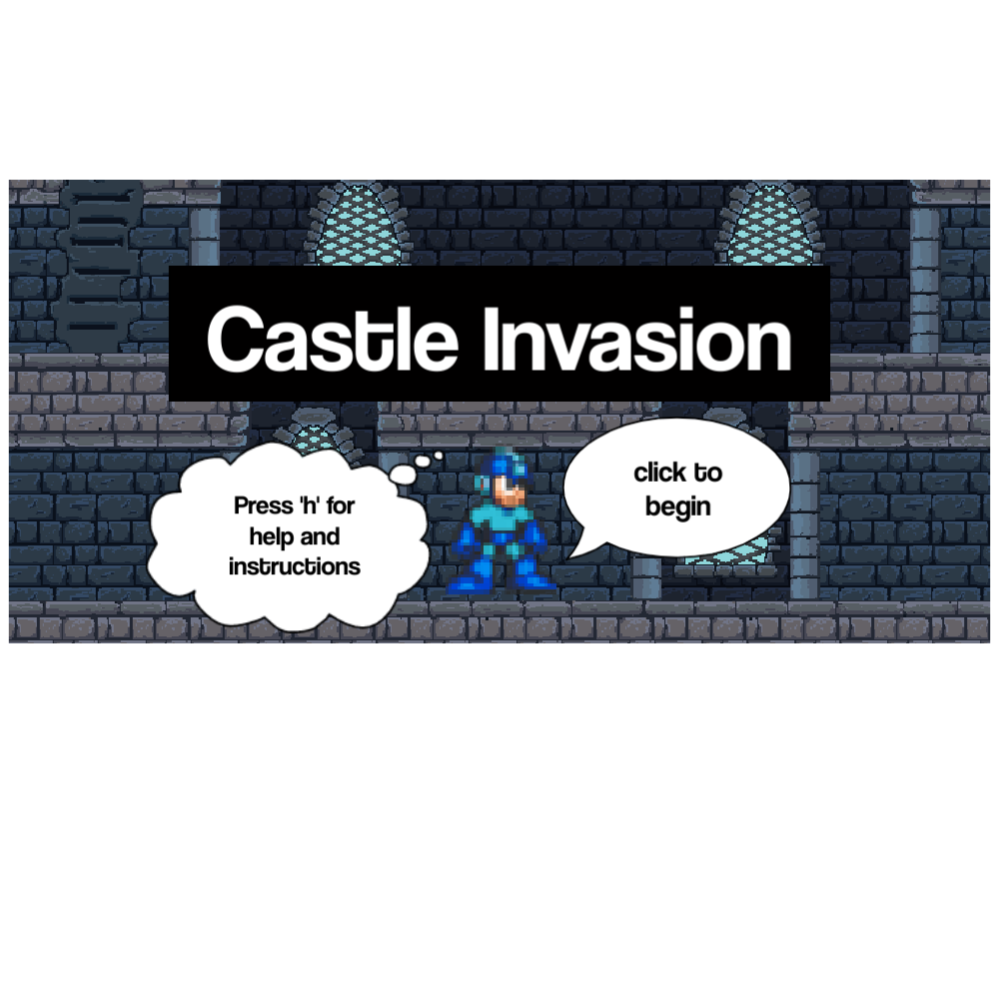
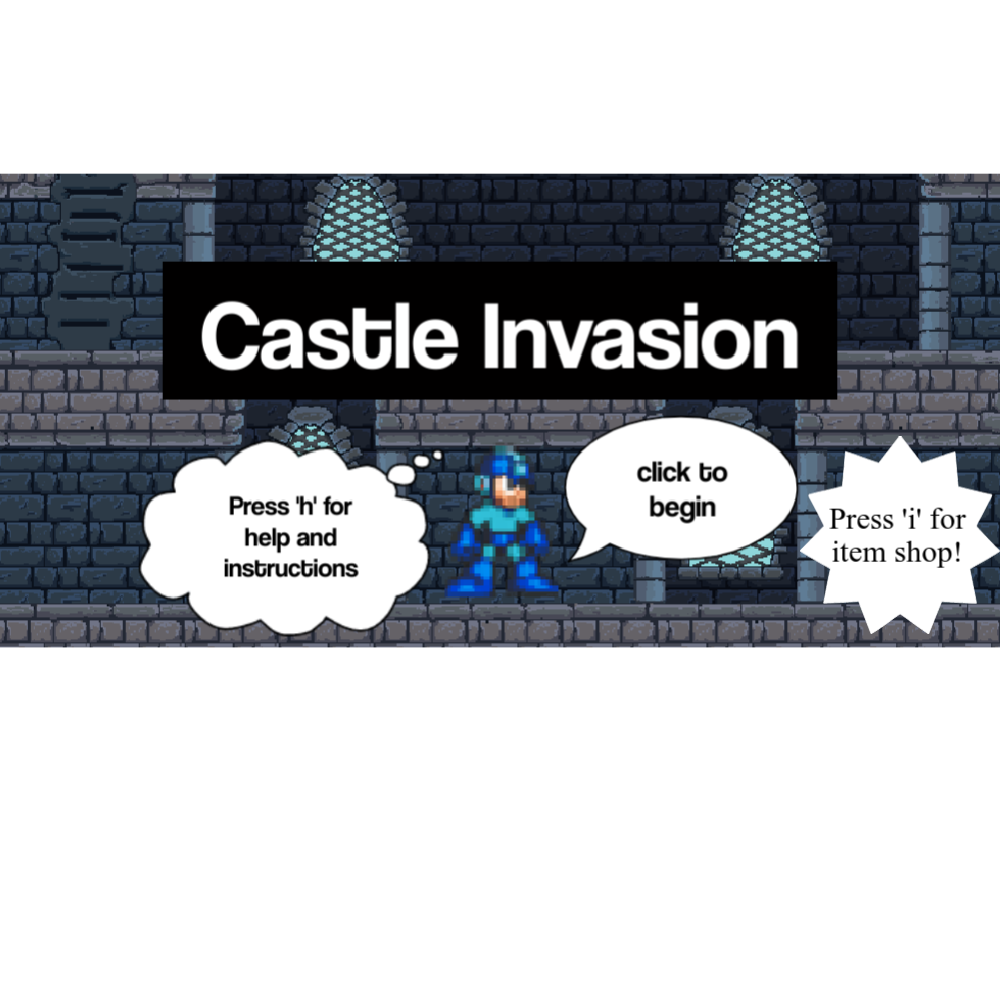
item shop

Changed region(s): [[0.0, 0.1552, 1.0, 0.6517], [0.2172, 0.4965, 0.3724, 0.5896]]

diff --git a/game/game.js b/game/game.js
@@ -47,7 +47,7 @@ function drawHelp() {
 function drawStart() {
  ctx.save(); //saves the present condition/state of the image/game
  ctx.beginPath(); //starts the drawing
- ctx.drawImage(imgStart, -10, -300, 1300, 1400); //parameters for drawing the bird
+ ctx.drawImage(imgStart, -10, -300, 1210, 1400); //parameters for drawing the bird
  ctx.fill(); //fills the image/drawing
  ctx.stroke(); //finishes the drawing
  ctx.restore(); //reuses the saved image
@@ -114,13 +114,21 @@ function draw(){
     if (keyInd >= 4) { // gives you access to the boss level (use top ladder to get to)
       pass = true;
     }
+    if (noColl == false) { //if there is no bubble protection, engage collisions (checkers)
+      collideHeroBad(); //calls the function that checks the collision between the npc and the hero
+      collideHeroBar(); //calls the function that checks for collisions between the hero and the barrel
+    }
+    if (noColl == true) { //if powerup is engaged, draw bubble so player knows its in effect
+      drawBubble(); //calls the function that draws the bubble for protection
+    }
+    noCollTime(); //calls the function that times how long the bubble should be in use
+    runTime(); //calls the function that times how long the speed run power should be in use
     drawScore(); //calls the function that draws the hero's heart and life
     scoreKeeperGood(); //calls the function that keeps track of health, life, and damage of the hero
     drawPlat(); //calls the function that draws the platform
     drawLad(); //calls the function that draws the ladder
     drawCan(); //calls the function that draws the cannon that will 'fire' barrels
     collideBar(); //calls the function that checks the collision between the barrels and the walls of the canvas
-    collideHeroBar(); //calls the function that checks for collisions between the hero and the barrel
     offLad(); //calls the function that checks if the hero is on the ladder or not. If not, enable gravity and colisions
     for (var i = 0; i < barArr.length; i++) { //goes through the barrel array
       if (barArr[i].yPos>470) { //after a specific time
@@ -142,7 +150,6 @@ function draw(){
     if (noCollision == false) {
       collideHeroPlat(); //calls the function that checks the collision between the hero and the platform
     }
-    collideHeroBad(); //calls the function that checks the collision between the npc and the hero
     enemyMove(); //calls the function that makes the npc move back and forth automatically
     jumpCheck(); //calls the function that checks whether the hero jumping animation should be used
     heroClimb(); //calls the function that checks wheteher the hero climbing animation is necessary (and turns off jumping if so)
@@ -226,12 +233,19 @@ function draw(){
     if (orbGo2 == true) { //calls the function to make an object that has the orb going to the left
       moreOrb(orb2.xPos, orb2.yPos, orb2.width, orb2.height, orb2.xMove, orb2.use);
     }
-    heroOrbCheck(); //calls the function that checks the collisions between the hero and the bad guy's orb
+    if (noColl == false) { //if there is no bubble protection, engage collisions (checkers)
+      collideHeroBoss(); //calls the function that checks the collision between the hero and the boss
+      heroOrbCheck(); //calls the function that checks the collisions between the hero and the bad guy's orb
+    }
+    if (noColl == true) { //if powerup is engaged, draw bubble so player knows its in effect
+      drawBubble(); //calls the function that draws the bubble for protection
+    }
+    noCollTime(); //calls the function that times how long the bubble should be in use
+    runTime(); //calls the function that times how long the speed run power should be in use
     bossMove(); //calls the function that makes the boss move left and right
     platCheck(rect); //calls the function that keeps the hero on the platform
     platBoss(); //calls the function that draws the platform for the boss level
     jumpCheck(); //calls the function that checks whether the jumping animation should be in use or not
-    collideHeroBoss(); //calls the function that checks the collision between the hero and the boss
     animateHero(); //calls the function that animates the default hero setting (just standing there blinking)
     animateHeroLeft(); //calls the function that animates the hero moving to the left
     animateHeroRight(); //calls the function that animates the hero moving to the right
@@ -270,6 +284,9 @@ function draw(){
   if (gameState == 3) {
     drawHelp(); //calls the function that draws the manual for the playing the game and the background
   }
+  if (gameState == 4) {
+    drawShop(); //calls the function that draws the item shop for players to buy upgrades
+  }
   requestAnimationFrame(draw); //basically replaces the job of setInterval
 }
 
@@ -300,6 +317,31 @@ function work(e) { //this function makes the ball bounce (or change direction in
   if (gamer == 2) { //if you clicked help while at boss level, you will return to it if you press x
     if (e.key == "h") {
       gameState = 3;
+    }
+    if (e.key == "x") {
+      gameState = 2;
+    }
+  }
+  //the ifs statements below are meant for item shops
+  if (gamer == 0) { //if you clicked for item shop while at start screen, you will return to it if you press x
+    if (e.key == "i") {
+      gameState = 4;
+    }
+    if (e.key == "x") {
+      gameState = 0;
+    }
+  }
+  if (gamer == 1) { //if you clicked for item shop while playing game (level 1), you will return to it if you press x
+    if (e.key == "i") {
+      gameState = 4;
+    }
+    if (e.key == "x") {
+      gameState = 1;
+    }
+  }
+  if (gamer == 2) { //if you clicked for item shop while at boss level, you will return to it if you press x
+    if (e.key == "i") {
+      gameState = 4;
     }
     if (e.key == "x") {
       gameState = 2;

diff --git a/game/shop.js b/game/shop.js
@@ -1,0 +1,97 @@
+var speedTime = 0; //counter for when the speed should wear off
+var starter = false; //for when the power timer should be on
+var powerTime = 0; //counter for when the protection bubble should wear off
+var noColl = false; //boolean tracker to see if hero should feel the effects of the collisions
+var imgShop = new Image(); //basically creates the image
+imgShop.onload = function(){ //uploads the image onto the screen
+  drawShop(); //uses a function from below
+}
+imgShop.src="game/itemShop.png"; //source for where the image is coming from
+
+//drawShop() - draws the item shop screen of the game to give users upgrades
+function drawShop() {
+ ctx.save(); //saves the present condition/state of the image/game
+ ctx.beginPath(); //starts the drawing
+ ctx.drawImage(imgShop, 0, -290, 1210, 1350); //parameters for drawing the screen
+ ctx.fill(); //fills the image/drawing
+ ctx.stroke(); //finishes the drawing
+ ctx.restore(); //reuses the saved image
+}
+
+/*runTime()
+This function checks how long the hero should have the power to run faster for
+*/
+function runTime(){
+  if ((gameState == 1) || (gameState == 2)) { //you can only use powerups in level 1
+    if (speedTime == 1500) { //sets how long the hero has the power for; tested --> 15 seconds (I'm feeling generous)
+      rect.xMove = 10;
+      starter = false;
+      console.log("yet?");
+    }
+    if (speedTime <= 1600) { //to stop the timer from continuing to go
+      speedTime ++;
+    }
+    if (speedTime >= 1600) { //resets it for the next possible powerup
+      speedTime = 0;
+    }
+  }
+}
+
+/*noCollTime()
+This function checks how long the hero should have the power to be protected for
+*/
+function noCollTime(){
+  if ((gameState == 1) || (gameState == 2)) { //you can only use powerups in level 1
+    if (powerTime == 1500) { //sets how long the hero has the power for; tested --> 15 seconds (I'm feeling generous)
+      noColl = false;
+      starter = false;
+    }
+    if (powerTime <= 1600) { //to stop the timer from continuing to go
+      powerTime ++;
+    }
+    if (powerTime >= 1600) { //resets it for the next possible powerup
+      powerTime = 0;
+    }
+  }
+}
+
+var imgBub = new Image(); //basically creates the image
+imgBub.onload = function(){ //uploads the image onto the screen
+  drawBubble(); //uses a function from below
+}
+imgBub.src="game/bubble.png"; //source for where the image is coming from
+
+/*drawBubble()
+a function that just draws the bubble so players know if their protection is on or off
+*/
+function drawBubble(){
+  ctx.save(); //saves the present condition/state of the image/game
+  ctx.beginPath(); //starts drawing the screen
+  ctx.drawImage(imgBub, rect.xPos-13, rect.yPos-15, 75, 75); //gives specifications for drawing it
+  ctx.fill(); //fills the image/drawing
+  ctx.stroke(); //finishes the drawing
+  ctx.restore(); //reuses the saved image
+}
+
+document.addEventListener("keyup", shopper); //addEventListenerws users to hit a key on keyboard to interact with the objects
+function shopper(e) {
+  if (e.key == "k") { //lets hero buy super speed spell
+    if (keyInd >= 1) {
+      starter = true; //starts the 15 seconds timer for power to wear off
+      rect.xMove = 30;
+      keyInd -= 1; //takes away your collected keys as payment
+      console.log(keyInd); //log the keyInd so it is visible and we can keep track of it
+      document.getElementById('score').innerHTML = "Keys: " + keyInd; //shows the number of keys you collected on the screen
+    }
+  }
+  if (e.key == "b") { //lets hero buy bubble spell
+    if (keyInd >= 1) {
+      starter = true; //starts the 15 seconds timer for power to wear off
+      noColl = true;
+      noCollTime();
+      keyInd -= 1; //takes away your collected keys as payment
+      console.log(keyInd); //log the keyInd so it is visible and we can keep track of it
+      document.getElementById('score').innerHTML = "Keys: " + keyInd; //shows the number of keys you collected on the screen
+    }
+  }
+}

diff --git a/environment/map.js b/environment/map.js
@@ -7,6 +7,8 @@ var downer = false; // boolean tracker to use the key on the bottom platform
 var keyInd = 0; //index to keep track of when to stop using keys because the very top ladder is unlocked
 var pass = false; //boolean tracker that decides whether or not the hero can pass through the top ladder to get to the boss level
 var imgKey = new Image(); //basically creates the image
+var score = 0; //just a placeholder for imgKey to show the number of keys, not score
+var randKey = Math.floor(Math.random() * (800 - 100) + 100); //gives you a random number between 100 and 800 to randomly place your key
 imgKey.onload = function(){ //uploads the image onto the screen
   drawKey(); //uses a function from below
 }
@@ -18,7 +20,7 @@ this draws a blue rectangle that's suppose to represent a key (for now) that the
 */
 function drawKey(key){
   ctx.beginPath();
-  ctx.drawImage(imgKey, key.xPos, key.yPos, key.width, key.height);
+  ctx.drawImage(imgKey, randKey, key.yPos, key.width, key.height);
   ctx.fillStyle = "blue";
   ctx.fill();
 }
@@ -30,16 +32,20 @@ this checks if the hero has touched the key or not, if so, switch the keys from 
 */
 function keyCheck(key1, key2){
   //this switches the key to the bottom when the top one is retrieved
-  if ((topper == true)&&(rect.xPos+rect.width>key1.xPos)&&(rect.xPos<key1.xPos)&&(rect.yPos+rect.height>key1.yPos)&&(rect.yPos<key1.yPos)) {
+  if ((topper == true)&&(rect.xPos+rect.width>randKey)&&(rect.xPos<randKey)&&(rect.yPos+rect.height>key1.yPos)&&(rect.yPos<key1.yPos)) {
     topper = false;
     downer = true;
     keyInd ++;
+    console.log(keyInd); //log the keyInd so it is visible and we can keep track of it
+    document.getElementById('score').innerHTML = "Keys: " + keyInd; //shows the number of keys you collected on the screen
   }
   //this switches the key to the top when the bottom one is retrieved
-  if ((downer == true)&&(rect.xPos+rect.width>key2.xPos)&&(rect.xPos<key2.xPos)&&(rect.yPos+rect.height>key2.yPos)&&(rect.yPos<key2.yPos)) {
+  if ((downer == true)&&(rect.xPos+rect.width>randKey)&&(rect.xPos<randKey)&&(rect.yPos+rect.height>key2.yPos)&&(rect.yPos<key2.yPos)) {
     topper = true;
     downer = false;
     keyInd ++;
+    console.log(keyInd); //log the keyInd so it is visible and we can keep track of it
+    document.getElementById('score').innerHTML = "Keys: " + keyInd; //shows the number of keys you collected on the screen
   }
 }
 

diff --git a/game.html b/game.html
@@ -11,6 +11,7 @@
   </head>
   <body>
     <center>
+      <p id="score"> Keys: 0 </p>
       <canvas id="myCanvas" width="1200" height="600"></canvas>
     </center>
   </body>
@@ -27,5 +28,6 @@
   <script type="text/javascript" src="functionality/goodMove.js"></script>
   <script type="text/javascript" src="functionality/score.js"></script>
   <script type="text/javascript" src="functionality/audio.js"></script>
+  <script type="text/javascript" src="game/shop.js"></script>
   <script type="text/javascript" src="game/game.js"></script>
 </html>

diff --git a/game/game.css b/game/game.css
@@ -12,3 +12,10 @@ body {
   background-repeat: no-repeat;
   background-size: cover;
 }
+
+#score {
+  font-size: 40px;
+  font-family: monospace;
+  color: white;
+
+}
